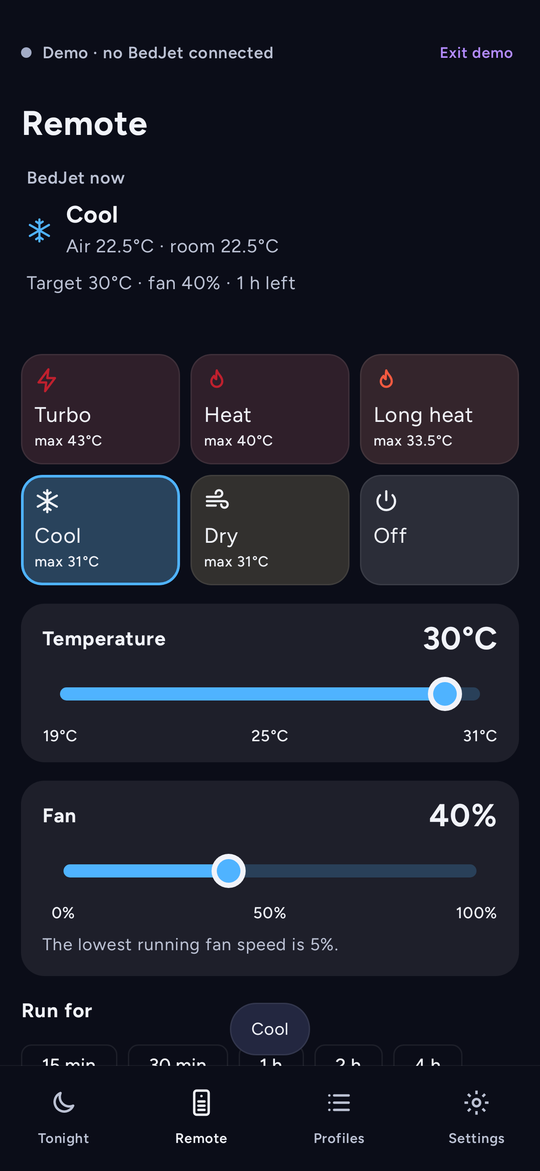
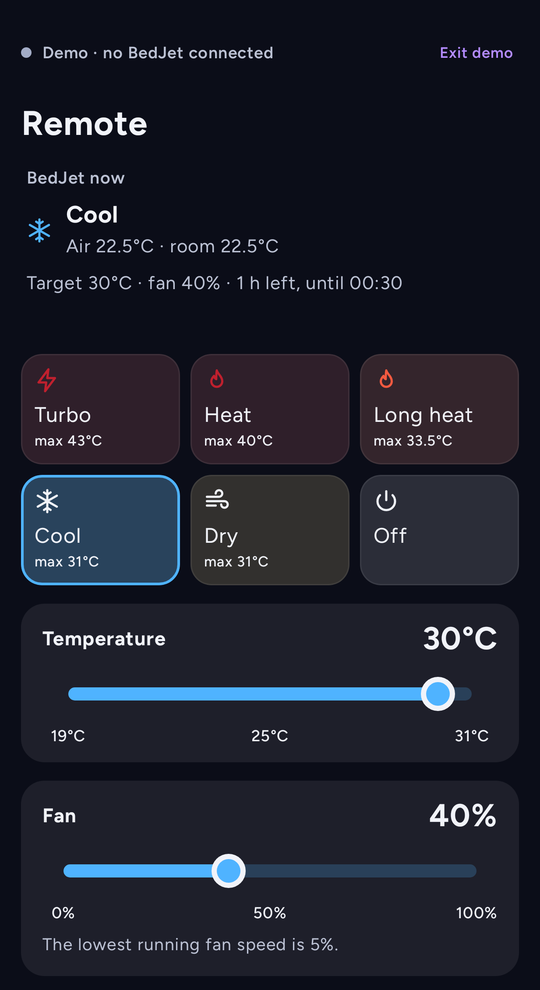
Refresh README screenshots and point downloads at Releases
The Cool quick tile now shows its longest run, 11 h 59 min, as 12 h so it
fits on one line, with a test. README images are re-rendered from the
current build. The download link goes to the Releases list with a
prerelease-aware badge, because /releases/latest skips beta releases.

Claude-Session: https://claude.ai/code/session_01XqCZrCNi6uzceBxEgZxBsr

diff --git a/app/src/main/kotlin/io/github/willzy12h/nocturne/ui/TonightParts.kt b/app/src/main/kotlin/io/github/willzy12h/nocturne/ui/TonightParts.kt
@@ -61,6 +61,7 @@ import io.github.willzy12h.nocturne.core.plan.Block
 import io.github.willzy12h.nocturne.core.plan.Plan
 import io.github.willzy12h.nocturne.core.protocol.DeviceStatus
 import io.github.willzy12h.nocturne.core.protocol.Mode
+import io.github.willzy12h.nocturne.core.protocol.Limits
 import io.github.willzy12h.nocturne.core.store.QuickDefaults
 import io.github.willzy12h.nocturne.night.NightActions.Command
 import io.github.willzy12h.nocturne.night.boostDescription
@@ -345,7 +346,8 @@ private fun QuickPresetTile(model: AppViewModel, guard: NightGuard, mode: Mode?,
             val valid = QuickDefaults.valid(preset)
             val label = stringResource(Format.modeNameRes(mode))
             val detail = preset.takeIf { valid }?.let {
-                val duration = durationText(it.minutes)
+                // The BedJet's longest run, 11 h 59 min, reads as 12 h so it fits the tile.
+                val duration = durationText(if (it.minutes == Limits.MAX_STEP_MINUTES) spokenMaximum(it.minutes) else it.minutes)
                 if (it.mode.usesTemperature) stringResource(R.string.quick_tile_detail, tempText(it.temperature, settings.fahrenheit), duration)
                 else duration
             }

diff --git a/app/src/test/kotlin/io/github/willzy12h/nocturne/ui/TonightAcceptanceTest.kt b/app/src/test/kotlin/io/github/willzy12h/nocturne/ui/TonightAcceptanceTest.kt
@@ -113,6 +113,12 @@ class TonightAcceptanceTest {
         ui.waitUntil { ui.graph.link.status.value?.mode == io.github.willzy12h.nocturne.core.protocol.Mode.HEAT }
     }
 
+    @Test fun theCoolTileShowsItsLongestRunAsTwelveHours() {
+        val twelve = Format.duration(12 * 60, Format.Words { id, args -> ui.s(id, *args) })
+        ui.compose.onNodeWithTag("quick-mode-COOL").performScrollTo()
+            .assert(hasText(twelve, substring = true, ignoreCase = false) or hasAnyDescendant(hasText(twelve, substring = true)))
+    }
+
     private fun restartWithLegacyCollapse(section: String) {
         ui.compose.runOnUiThread { runBlocking {
             ui.graph.repository.updateSettings {

diff --git a/README.md b/README.md
@@ -2,6 +2,8 @@
 
 **A free, open-source Android app for the BedJet 3 that plans each night around your alarm.**
 
+[![Download the latest APK](https://img.shields.io/github/v/release/Willzy12h/bedjet-android?include_prereleases&label=download%20APK)](https://github.com/Willzy12h/bedjet-android/releases)
+
 Set up a night profile once. Every evening Nocturne fits it to when you go to bed and when your Samsung or Google
 Clock alarm goes off, writes it to the BedJet, and lets the BedJet run it on its own. Your phone can go to sleep too.
 
@@ -17,8 +19,8 @@ Bluetooth only. No account, no cloud, no internet permission. Not affiliated wit
 
 ## Download
 
-1. On your phone, open the [latest release](https://github.com/Willzy12h/bedjet-android/releases/latest) and
-   download `nocturne-<version>.apk`.
+1. On your phone, open [Releases](https://github.com/Willzy12h/bedjet-android/releases), pick the newest one at the
+   top and download `nocturne-<version>.apk` from its Assets.
 2. Open the file. Android asks you to allow "Install unknown apps" for your browser or file manager the first time.
 3. Open Nocturne. The **Tonight** screen lists anything still to set up: Bluetooth, notifications, alarms and
    reminders, your alarm app and battery use.
